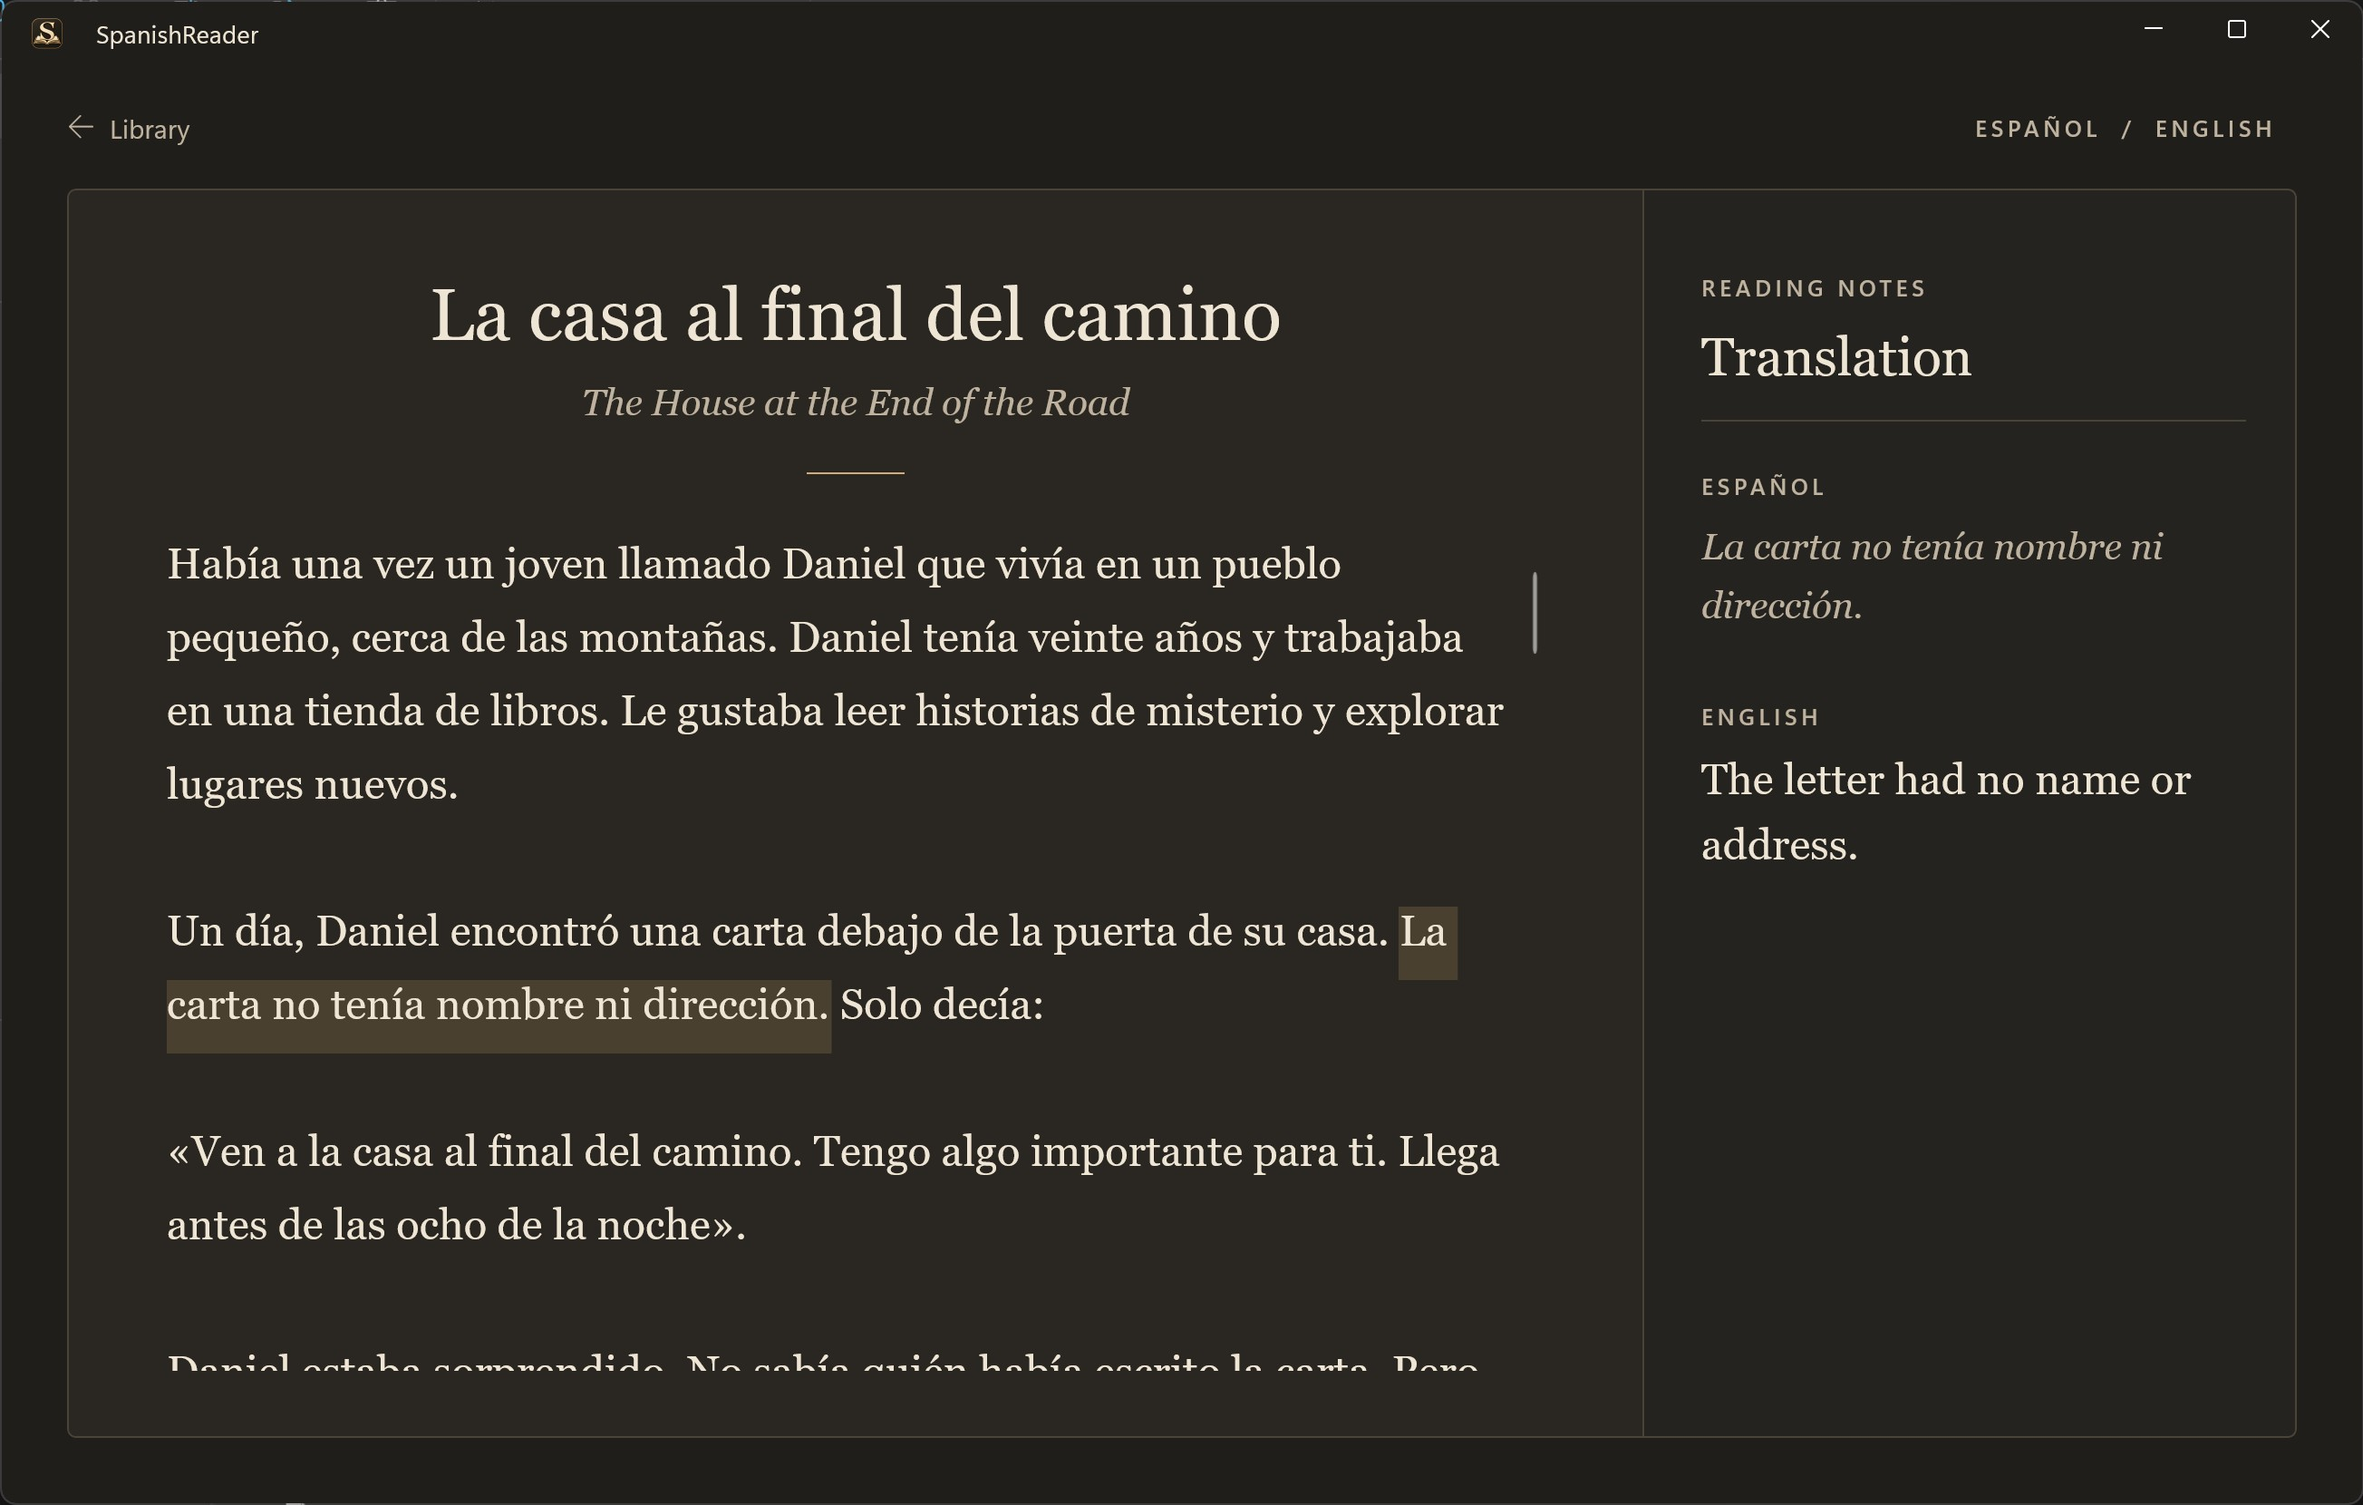
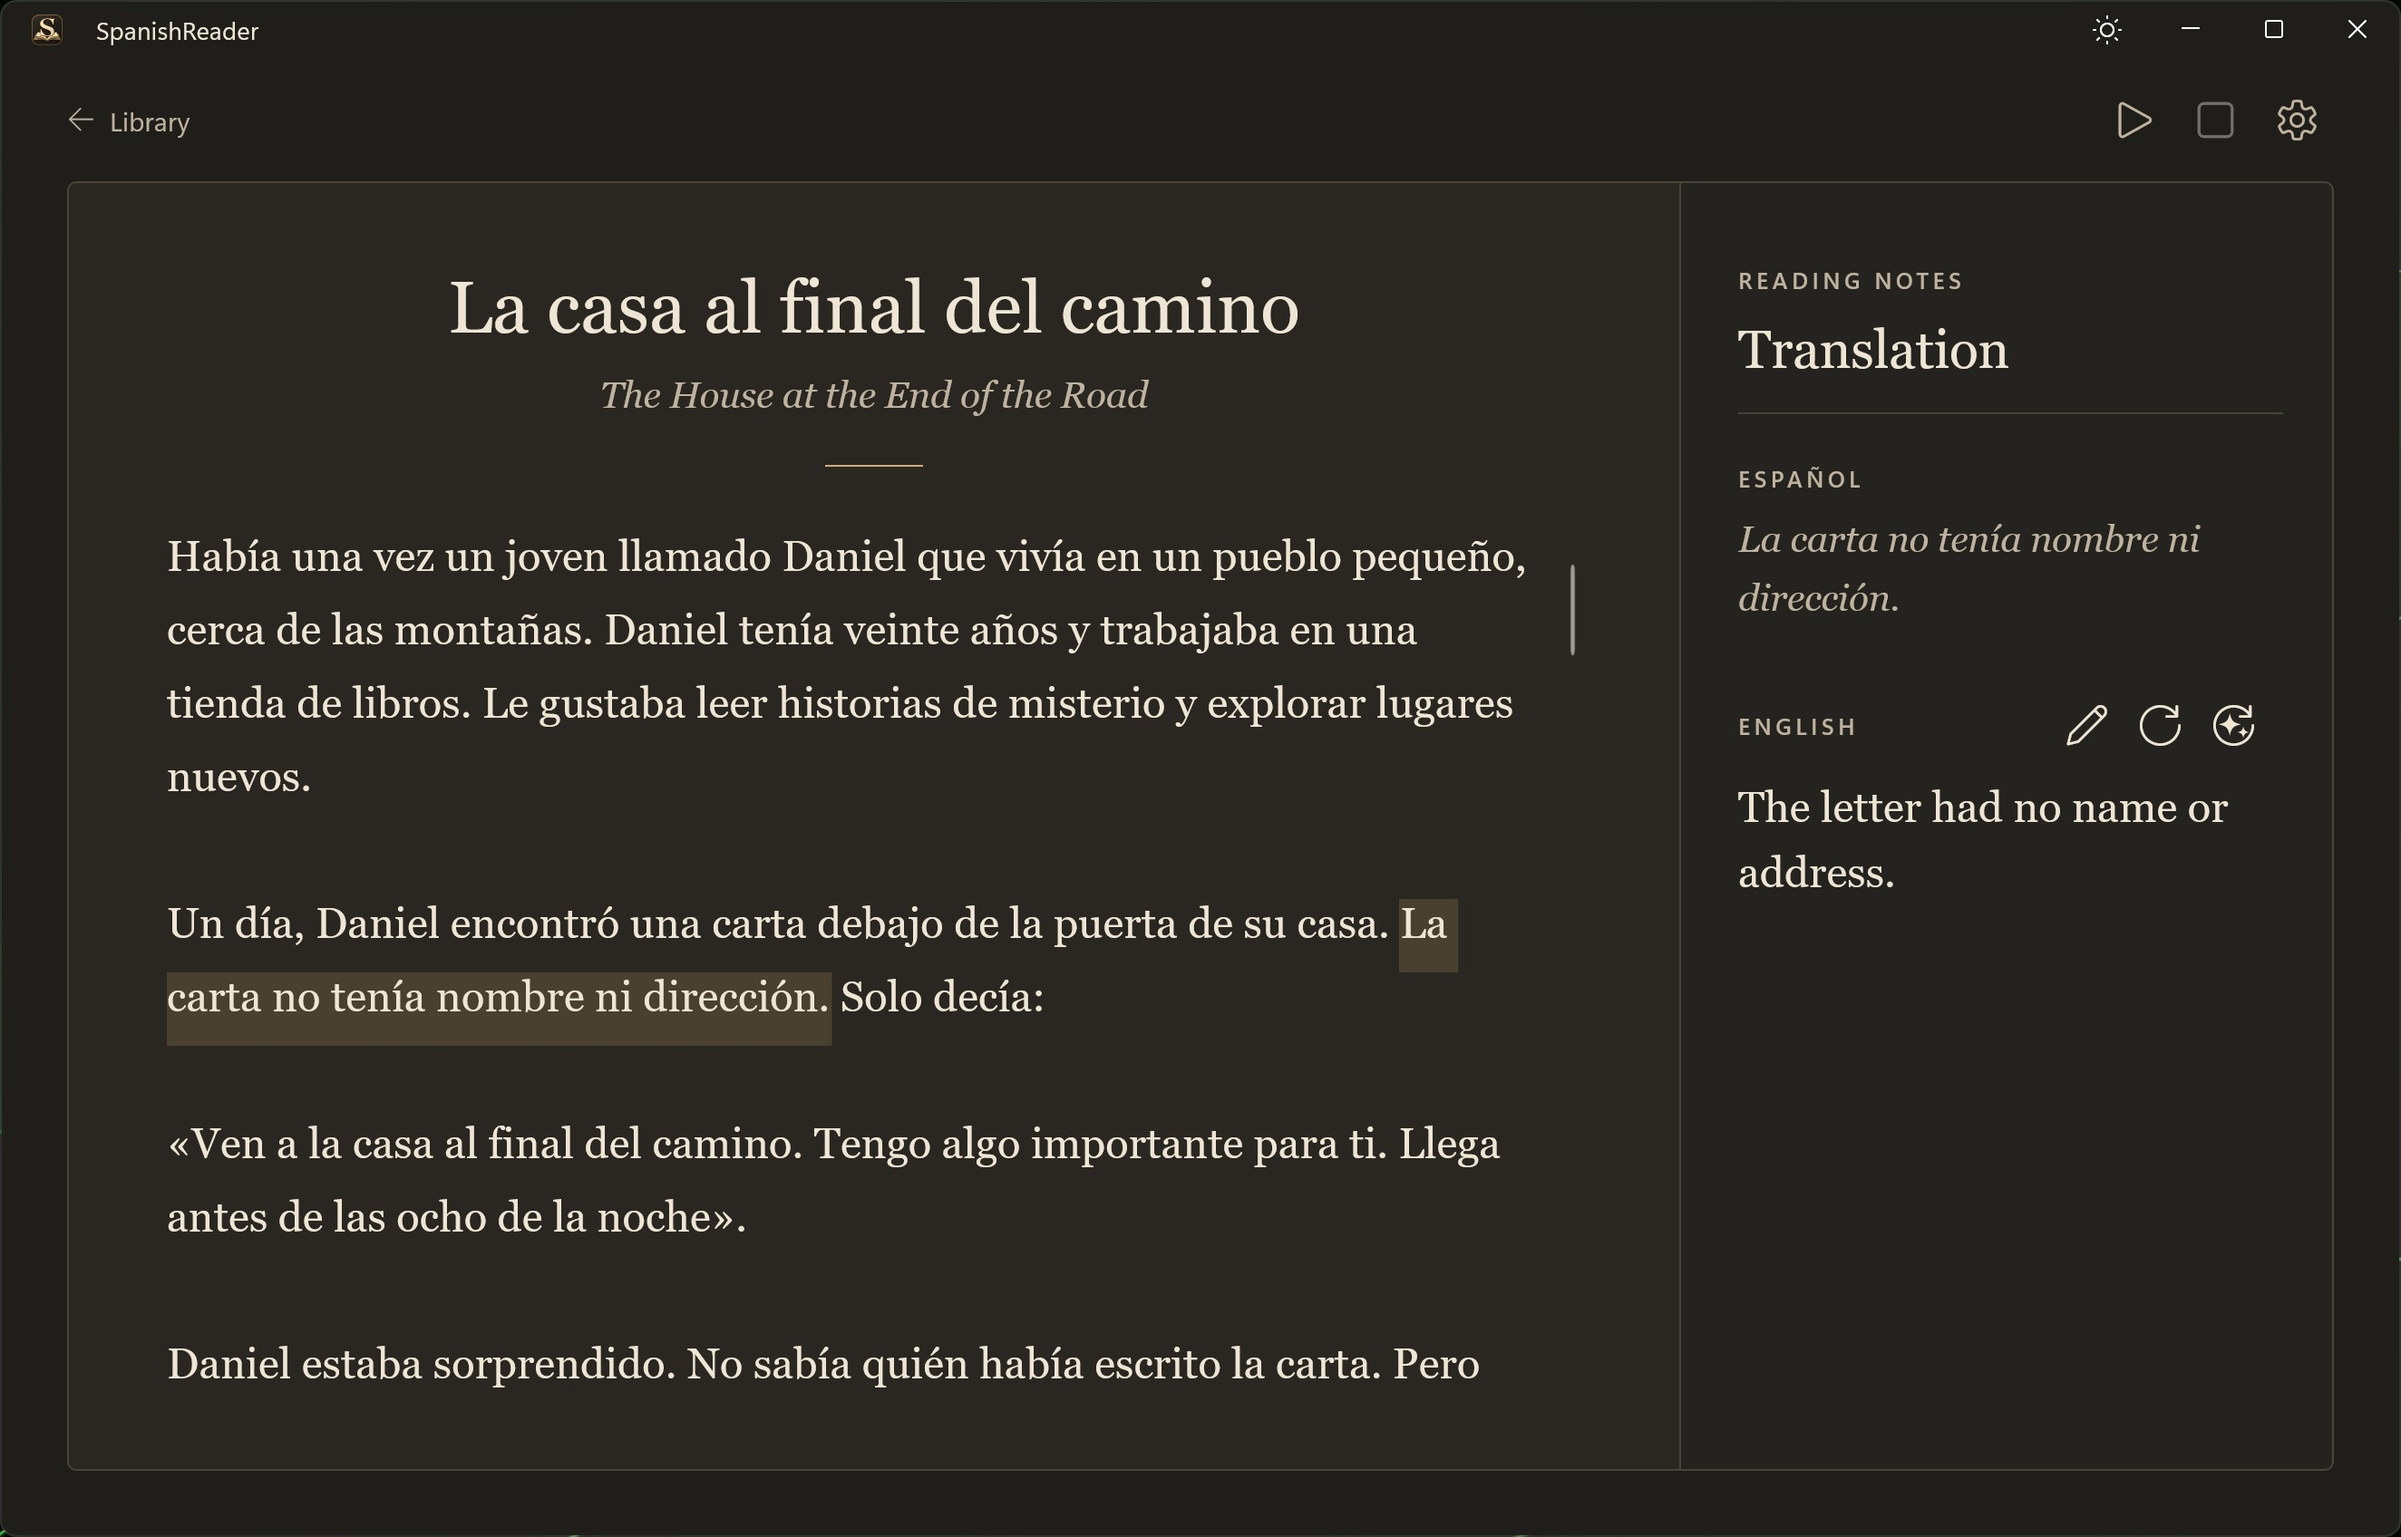
Update docs

diff --git a/SpanishReader/Views/SettingsPage.xaml b/SpanishReader/Views/SettingsPage.xaml
@@ -42,6 +42,7 @@
                             AutomationProperties.AutomationId="LanguageModelCard">
                         <StackPanel Spacing="16">
                             <TextBlock Text="Language model (Optional)" FontSize="20" Foreground="{ThemeResource ReaderInkBrush}" />
+                            <TextBlock Text="LLM for optional in-context translations" Foreground="{ThemeResource ReaderInkBrush}" />
                             <TextBlock Text="Qwen3-1.7B-Q8_0 · GGUF · 1.83 GB" Foreground="{ThemeResource ReaderMutedBrush}" />
                             <TextBlock Text="{x:Bind ViewModel.Status, Mode=OneWay}" Foreground="{ThemeResource ReaderMutedBrush}"
                                        AutomationProperties.AutomationId="ModelStatus" />

diff --git a/README.md b/README.md
@@ -7,8 +7,14 @@ SpanishReader is a Windows app for reading Spanish stories with sentence-by-sent
 ## Using the app
 
 1. In the library, select **Import**. Enter a Spanish title, CEFR level, and Spanish story text; an English title and author are optional. Select **Import story** to translate and save it.
-2. Select a story in the library to read it. Select a sentence to see its English translation. If a translation is missing, use **Translate and save** to generate it.
-3. Use the library search, CEFR filter, and sort menu to find stories. A story's actions menu lets you edit or delete it.
+2. Select a story in the library to read it. Select a sentence to see its English translation.
+3. If a translation is missing or incorrect, select one of the retranslate buttons to enter a translation manually, translate using the default machine translation model, or translate in-context with an LLM.
+4. Use the playback controls in the upper right hand corner of the app to use Windows TTS to read the story aloud (install a Windows Spanish voice first).
+5. Use the library search, CEFR filter, and sort menu to find stories. A story's actions menu lets you edit or delete it.
+
+## Installing the LLM
+
+An LLM can optionally be installed for in-context translations. It can be downloaded from the settings page. The LLM can run on any available GPUs or on the CPU. Currently `Qwen3-1.7B-Q8_0` is used.
 
 ## Screenshot
 
